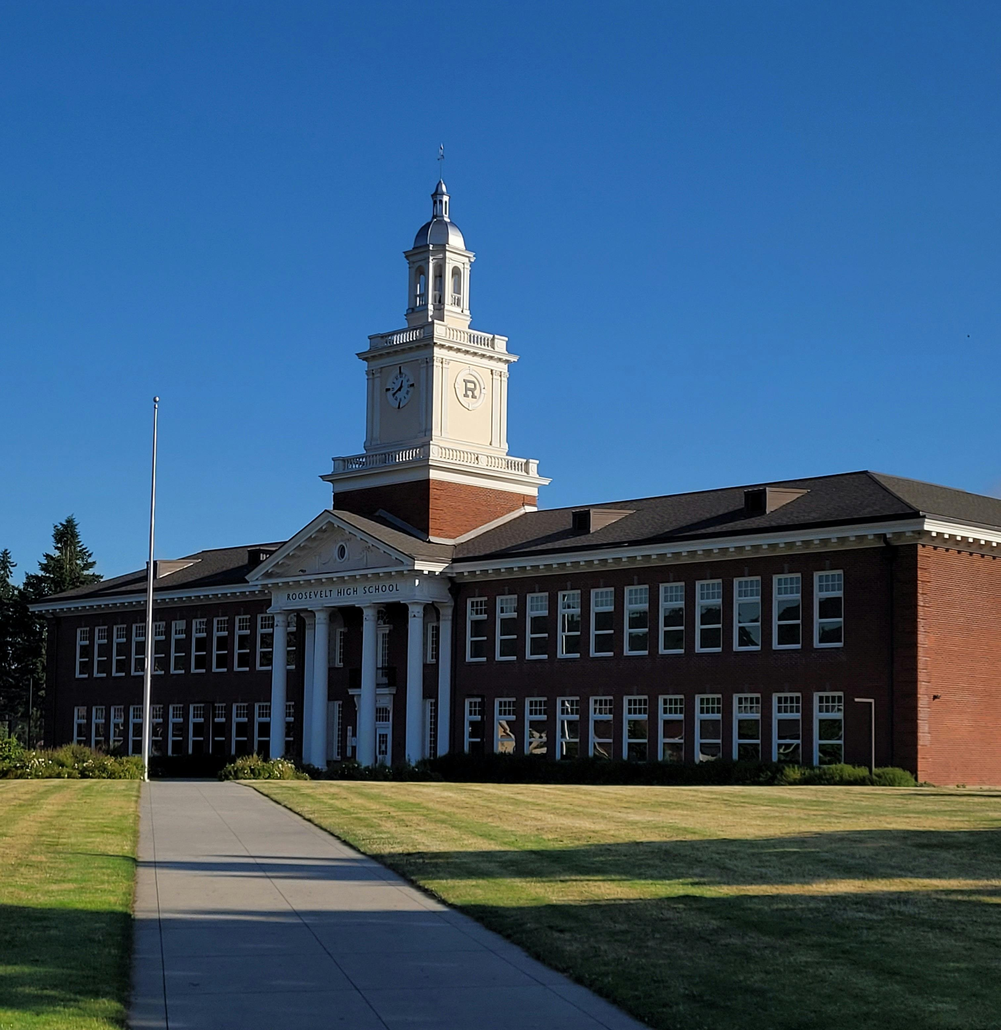
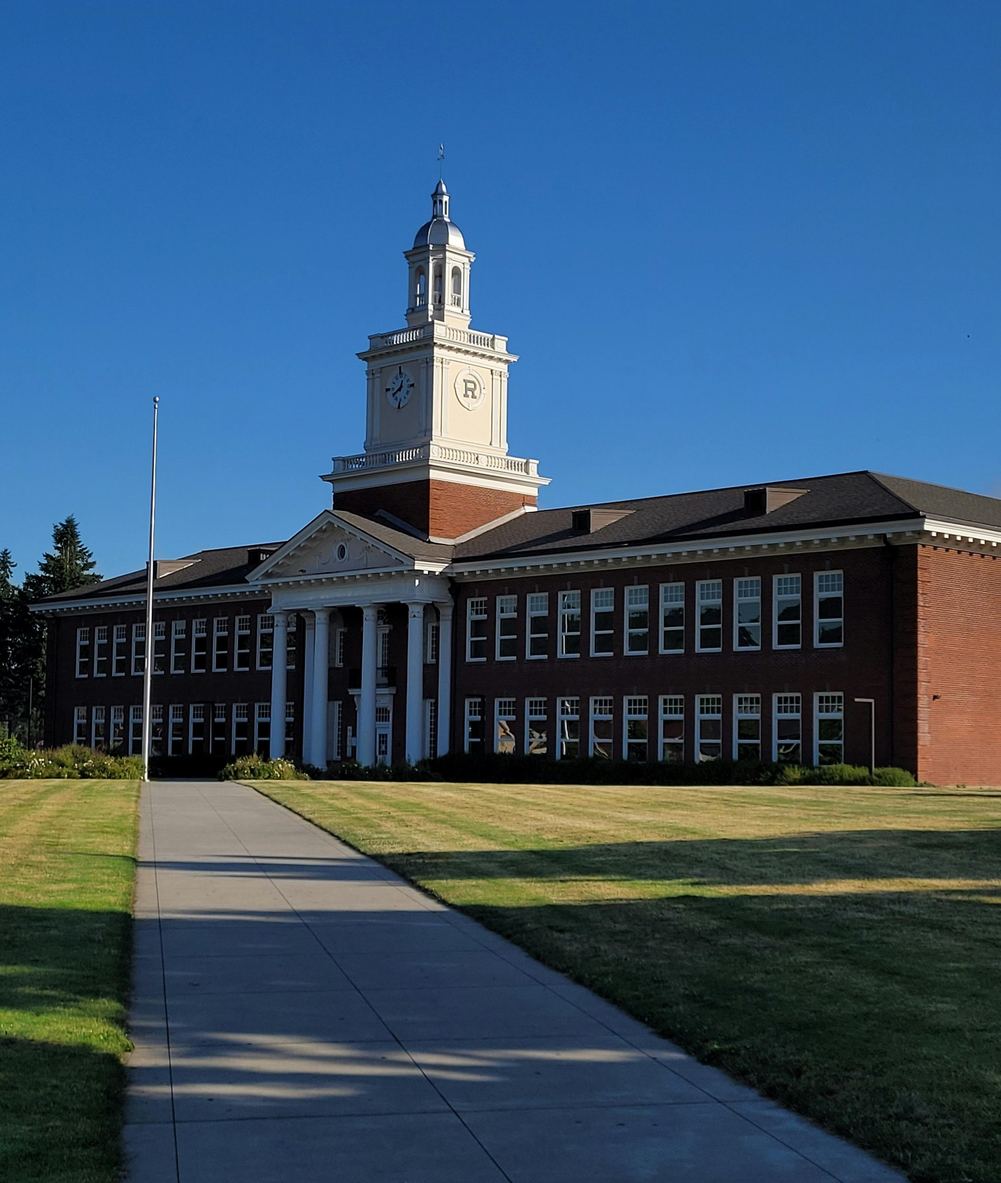
added redirect function to login

diff --git a/timba_university/templates/Login_page.html b/timba_university/templates/Login_page.html
@@ -35,6 +35,11 @@
         <div class="login-box">
             <h2>Login</h2>
             
+            <!-- ERROR MESSAGE -->
+            <div id="errorMessage" class="error-message" style="display:none;">
+                <p>Invalid username. Please try again.</p>
+            </div>
+            
             <!-- THIS IS THE LOGIN FORM - Send POST request to your backend -->
             <form id="loginForm" method="POST" action="/login/">
                 
@@ -46,6 +51,7 @@
                         id="username" 
                         name="username" 
                         placeholder="Enter your username or email"
+                        value="CedsParty67"
                         required
                     >
                 </div>
@@ -58,6 +64,7 @@
                         id="password" 
                         name="password" 
                         placeholder="Enter your password"
+                        value="Welcome2CiddysParty"
                         required
                     >
                 </div>
@@ -88,5 +95,50 @@
     </div>
     <!-- END OF LOGIN FORM SECTION ↑↑↑ -->
 
+    <script>
+        // Credentials validation
+        const correctUsername = "CedsParty67";
+        const correctPassword = "Welcome2CiddysParty";
+        
+        const usernameInput = document.getElementById('username');
+        const passwordInput = document.getElementById('password');
+        const loginForm = document.getElementById('loginForm');
+        const errorMessage = document.getElementById('errorMessage');
+        
+        // Real-time username validation
+        usernameInput.addEventListener('input', function() {
+            if (this.value !== correctUsername && this.value.length > 0) {
+                errorMessage.textContent = 'Invalid username. Please try again.';
+                errorMessage.style.display = 'block';
+            } else {
+                errorMessage.style.display = 'none';
+            }
+        });
+        
+        // Form submission validation
+        loginForm.addEventListener('submit', function(event) {
+            event.preventDefault(); // Prevent default form submission
+            
+            const username = usernameInput.value;
+            const password = passwordInput.value;
+            
+            // Check if credentials are correct
+            if (username === correctUsername && password === correctPassword) {
+                // Credentials are correct - you can proceed with login
+                alert('Login successful!');
+                // You can redirect or submit the form here
+                window.location.href = 'button.html';
+            } else if (username !== correctUsername) {
+                errorMessage.textContent = 'Invalid username. Please try again.';
+                errorMessage.style.display = 'block';
+            } else if (password !== correctPassword) {
+                errorMessage.textContent = 'Invalid password. Please try again.';
+                errorMessage.style.display = 'block';
+            } else {
+                errorMessage.textContent = 'Invalid username or password.';
+                errorMessage.style.display = 'block';
+            }
+        });
+    </script>
 </body> 
 </html>

diff --git a/timba_university/static/Login_style.css b/timba_university/static/Login_style.css
@@ -5,7 +5,11 @@
   font-family: 'jost', sans-serif;
 }
 body {
-  background-color: #efffdb;
+  background: linear-gradient(rgba(0, 0, 0, 0.3), rgba(0, 0, 0, 0.3)), url('../pics/Login_pic.jpg');
+  background-attachment: fixed;
+  background-size: cover;
+  background-position: center;
+  min-height: 100vh;
 }
 header {
   display: flex;
@@ -171,21 +175,25 @@ header {
 /* Main login container with two columns (form + image) */
 .login-container {
   display: flex;
-  flex-direction: row-reverse;
+  flex-direction: column;
   justify-content: center;
   align-items: center;
   gap: 40px;
-  margin: 0px auto;
-  max-width: 1000px;
+  margin: 40px auto;
+  max-width: 450px;
   padding: 20px;
+  min-height: 60vh;
 }
 
 /* Login form box styling */
 .login-box {
-  background-color: white;
+  background-color: rgba(255, 255, 255, 0.95);
+  backdrop-filter: blur(10px);
+  -webkit-backdrop-filter: blur(10px);
   padding: 40px;
-  border-radius: 10px;
-  box-shadow: 0px 4px 15px rgba(0, 0, 0, 0.1);
+  border-radius: 15px;
+  box-shadow: 0 8px 32px rgba(0, 0, 0, 0.2);
+  border: 1px solid rgba(255, 255, 255, 0.2);
   width: 100%;
   max-width: 400px;
 }
@@ -294,12 +302,29 @@ header {
   color: #ccc;
 }
 
+/* Error message styling */
+.error-message {
+  background-color: #ff6b6b;
+  color: white;
+  padding: 12px 16px;
+  border-radius: 5px;
+  margin-bottom: 15px;
+  font-size: 14px;
+  font-weight: 600;
+  text-align: center;
+  border-left: 4px solid #d32f2f;
+}
+
+.error-message p {
+  margin: 0;
+}
+
 /* Login image side */
 .login-image {
   width: 800px;
   height: 500px;
   flex: 1;
-  display: block;
+  display: none;
   border-radius: 15px;
   overflow: hidden;
   background-color: #93d574;
